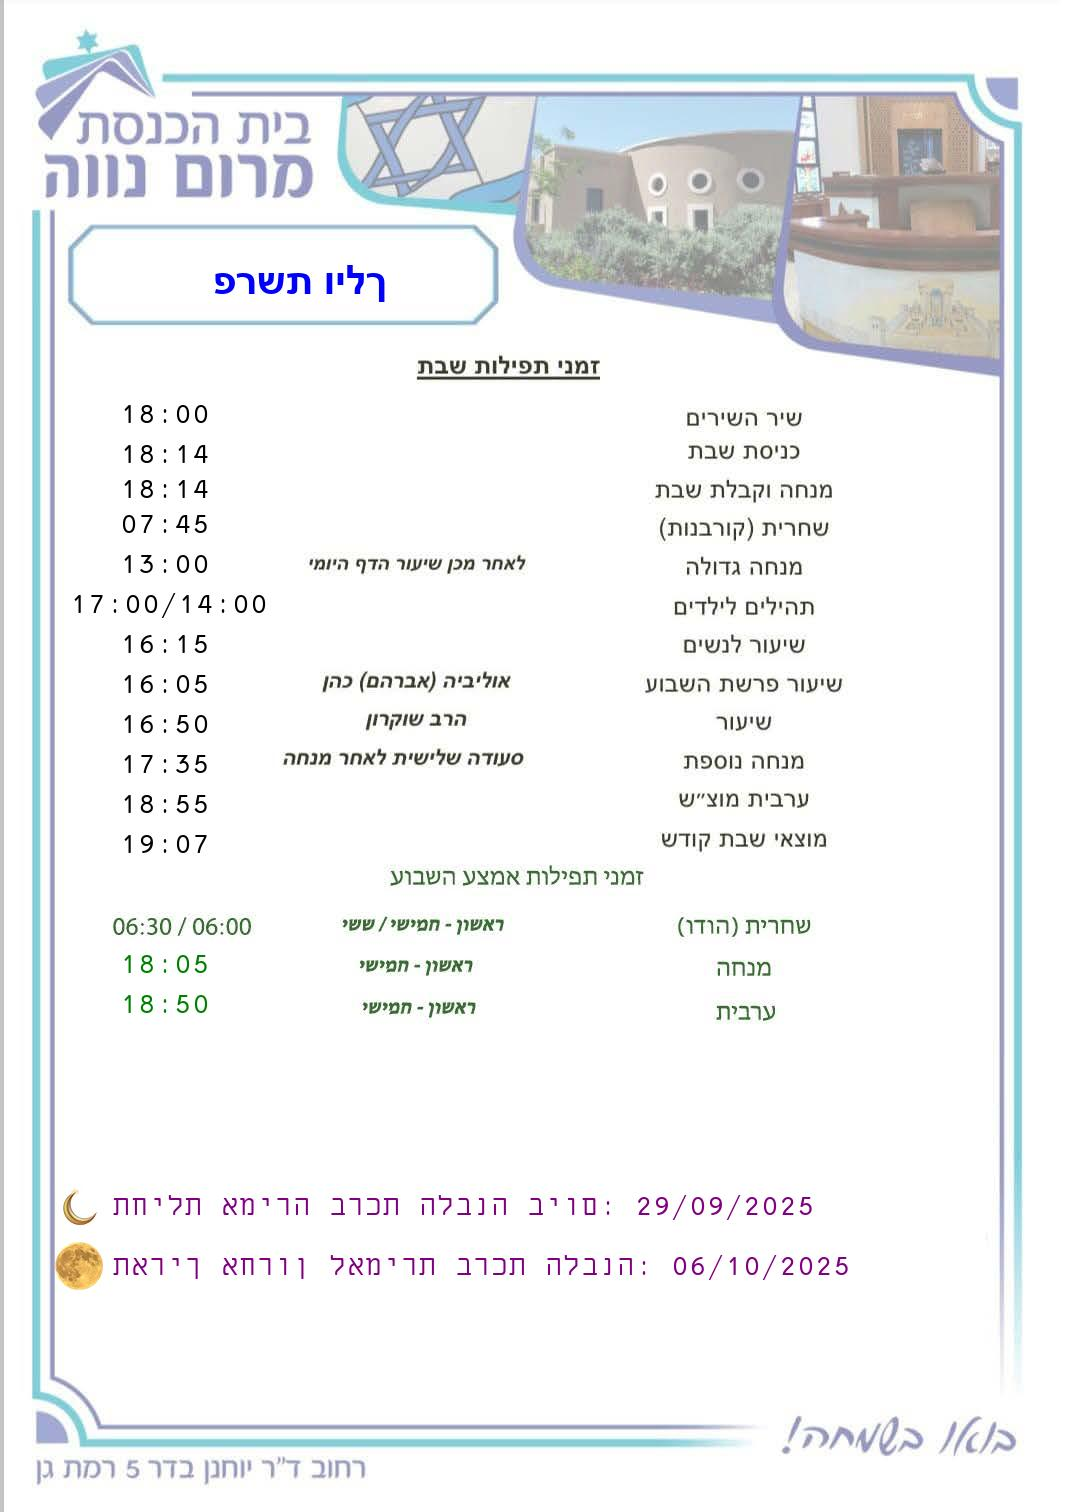
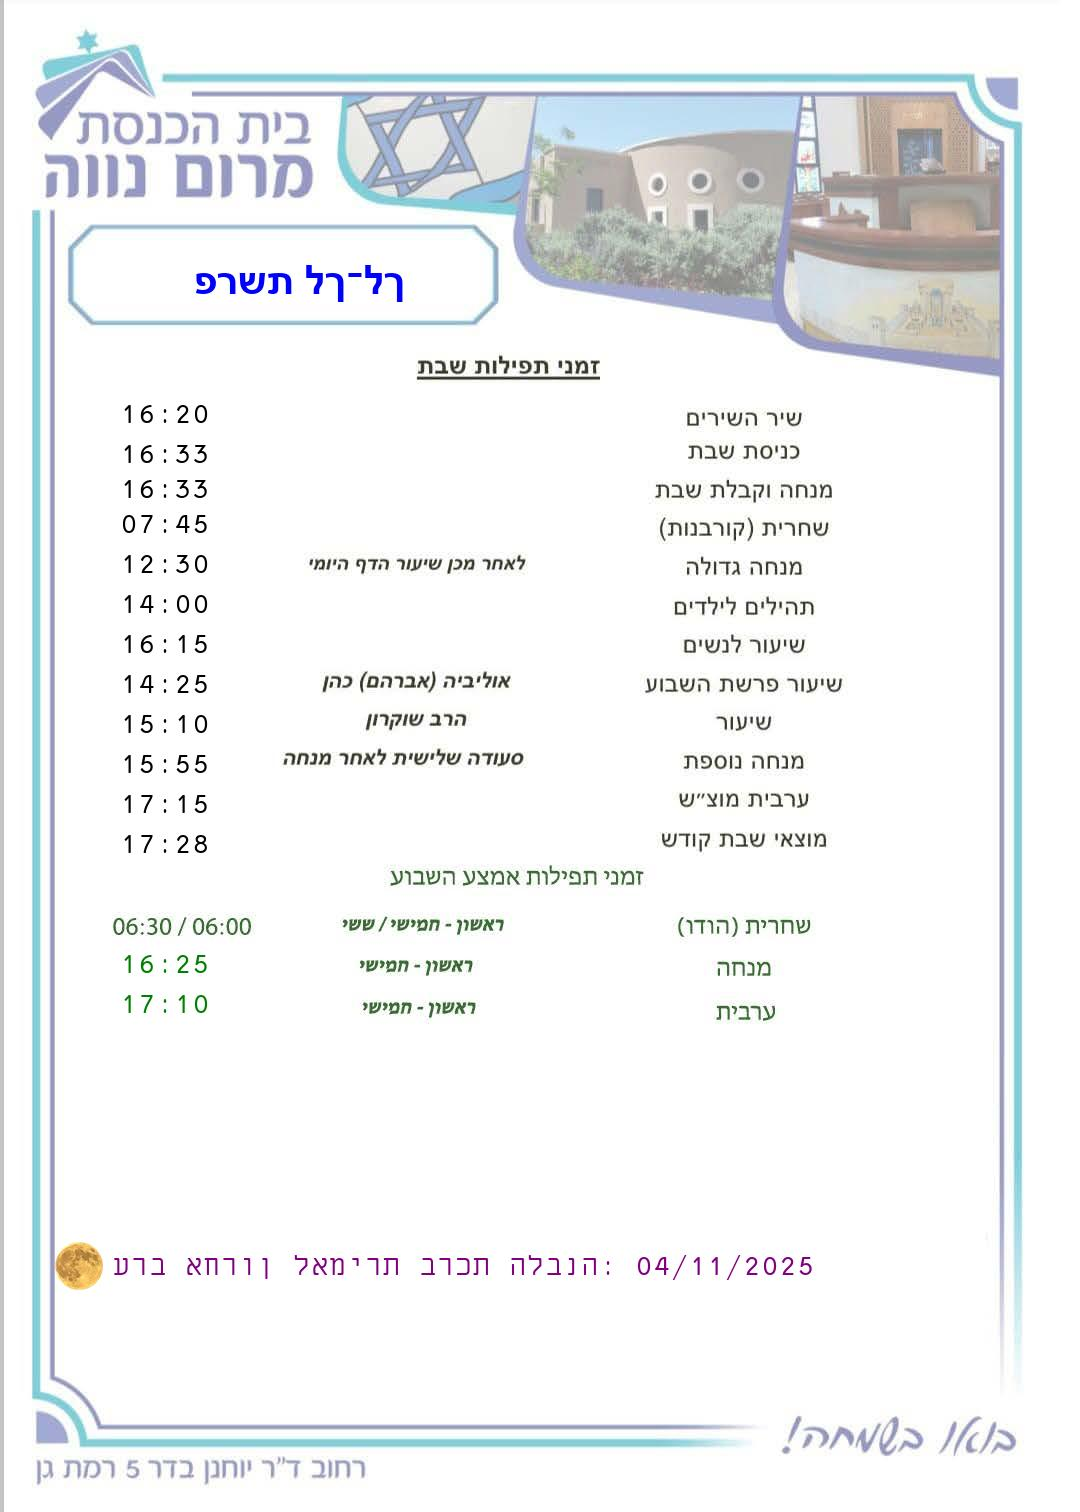
שיעור נשים עדכני

diff --git a/horaires_shabbat.py b/horaires_shabbat.py
@@ -765,7 +765,7 @@ class ShabbatScheduleGenerator:
             "tehilim": tehilim,
             "tehilim_ete": tehilim_ete,
             "tehilim_hiver": tehilim_hiver,
-            "shiur_nashim": 16 * 60 +00,
+            "shiur_nashim": 15 * 60 +00,
             "arvit_hol": None,
             "arvit_motsach": None,
             "mincha_2": None,
